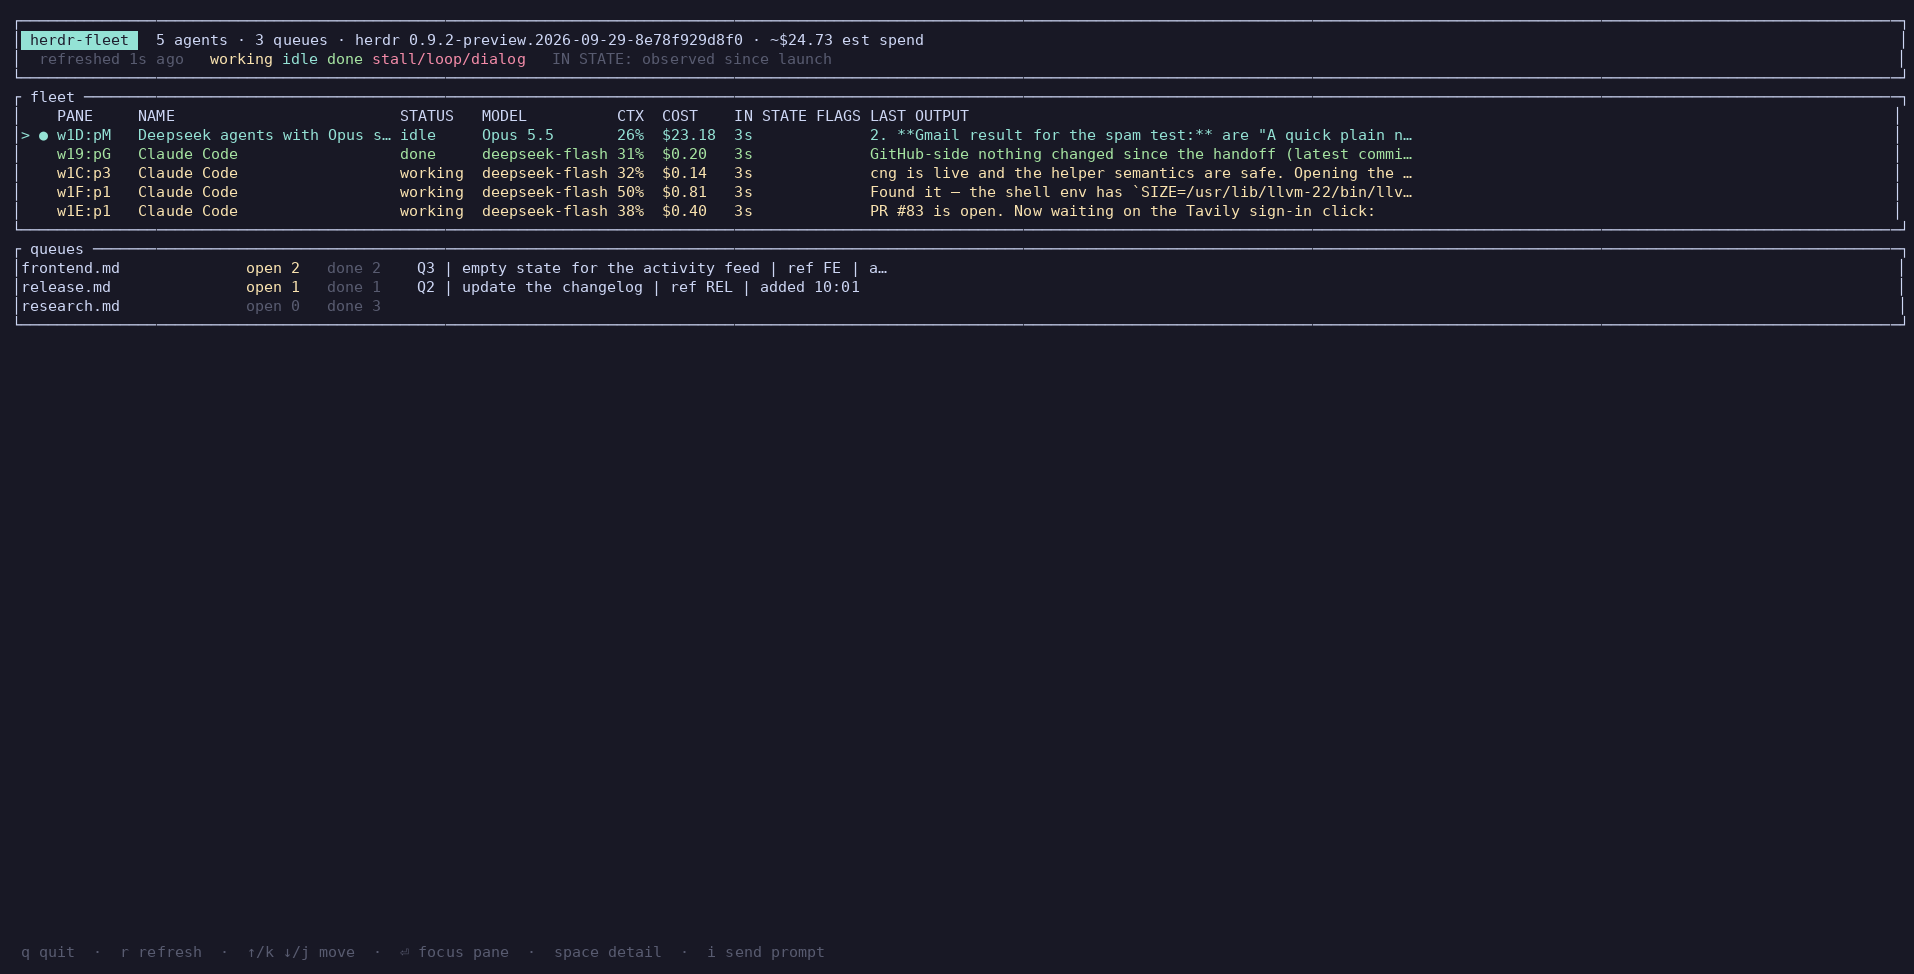
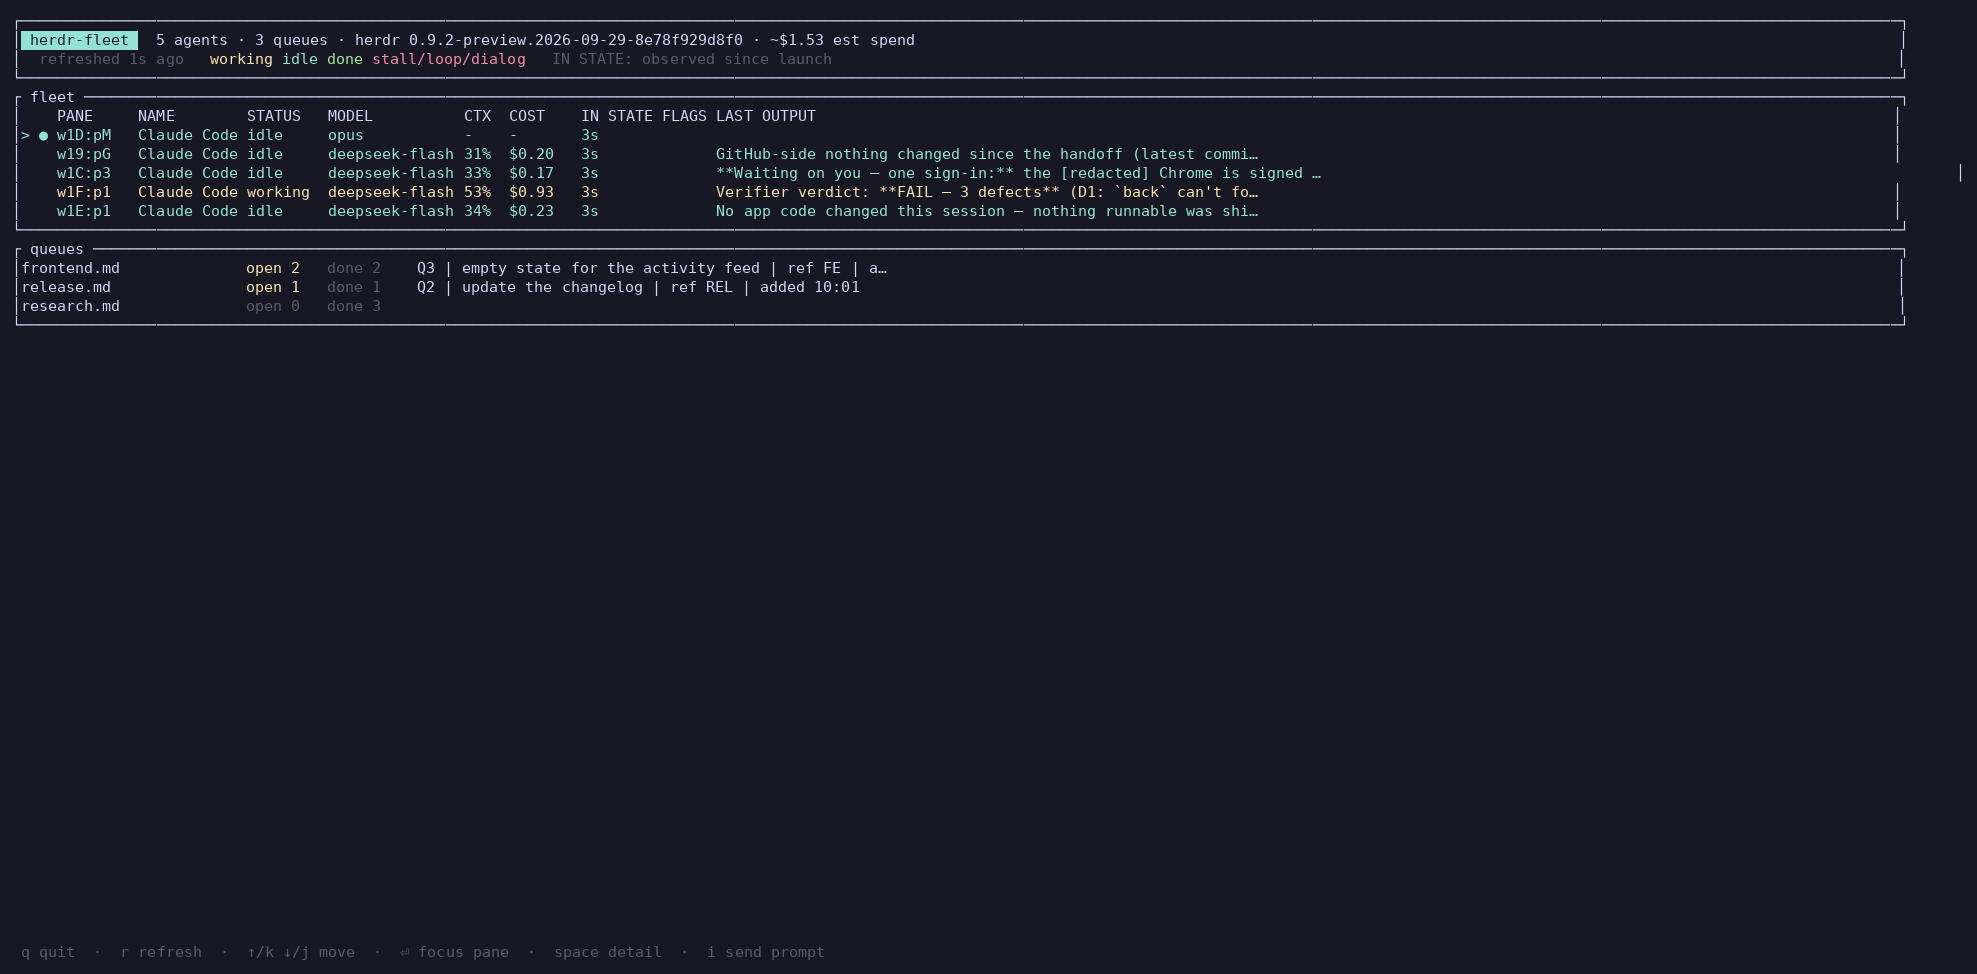
fix: back falls back to the recorded tab; scrub capture-time tokens; drop a private name from a comment
- back: agent -> tab -> workspace focus chain; exits non-zero when the exact
  recorded pane could not be focused (verifier D1)
- screenshot.sh: SCRUB_WORDS redacts capture-time tokens; PNG recaptured (D2)
- queue.rs: comment no longer names a private project (D3)

diff --git a/src/keys.rs b/src/keys.rs
@@ -84,28 +84,37 @@ pub fn read_fleet_pane() -> Result<FleetPane> {
     serde_json::from_str(&text).with_context(|| format!("bad {}", path.display()))
 }
 
-/// Focus the recorded fleet pane. Prefers the pane's agent; falls back to its
-/// workspace, which also works after the agent in that pane has exited.
+/// Focus the recorded fleet pane. The pane's agent is the precise target; a
+/// plain shell pane (the TUI's normal home when no agent runs there) has none,
+/// so fall back to the recorded tab, whose active pane is where the fleet ran.
+/// If even that fails, move to the workspace but exit non-zero: the exact pane
+/// could not be focused.
 pub fn back(herdr: &Herdr) -> Result<String> {
     let fp = read_fleet_pane()?;
+    let age = now_epoch().saturating_sub(fp.recorded_at);
     match herdr.focus(&fp.pane_id) {
-        Ok(()) => Ok(format!(
-            "focused {} (recorded {}s ago)",
-            fp.pane_id,
-            now_epoch().saturating_sub(fp.recorded_at)
-        )),
-        Err(e) => {
-            herdr.focus_workspace(&fp.workspace_id).map_err(|e2| {
+        Ok(()) => Ok(format!("focused {} (recorded {age}s ago)", fp.pane_id)),
+        Err(pane_err) => {
+            if !fp.tab_id.is_empty() && herdr.focus_tab(&fp.tab_id).is_ok() {
+                return Ok(format!(
+                    "focused tab {} — pane {} has no agent to focus ({pane_err:#})",
+                    fp.tab_id, fp.pane_id
+                ));
+            }
+            herdr.focus_workspace(&fp.workspace_id).map_err(|workspace_err| {
                 anyhow::anyhow!(
-                    "focus {} failed ({e:#}); workspace {} focus failed ({e2:#})",
+                    "focus {} failed ({pane_err:#}); tab {} and workspace {} focus failed too ({workspace_err:#})",
                     fp.pane_id,
+                    fp.tab_id,
                     fp.workspace_id
                 )
             })?;
-            Ok(format!(
-                "focused workspace {} (pane {} not focusable: {e:#})",
-                fp.workspace_id, fp.pane_id
-            ))
+            bail!(
+                "focused workspace {} but not the recorded pane {} (no agent there, and tab {} focus failed: {pane_err:#})",
+                fp.workspace_id,
+                fp.pane_id,
+                fp.tab_id
+            );
         }
     }
 }

diff --git a/src/herdr.rs b/src/herdr.rs
@@ -163,7 +163,12 @@ impl Herdr {
         self.run(&["agent", "focus", pane]).map(|_| ())
     }
 
-    /// Focus the workspace a pane lives in (fallback when its agent is gone).
+    /// Focus the tab a pane lives in (fallback when the pane's agent is gone).
+    pub fn focus_tab(&self, tab: &str) -> Result<()> {
+        self.run(&["tab", "focus", tab]).map(|_| ())
+    }
+
+    /// Focus the workspace a pane lives in (last-resort fallback).
     pub fn focus_workspace(&self, workspace: &str) -> Result<()> {
         self.run(&["workspace", "focus", workspace]).map(|_| ())
     }

diff --git a/src/queue.rs b/src/queue.rs
@@ -1,6 +1,6 @@
 //! Optional plugin: summarise a directory of markdown checklists.
 //!
-//! Nothing about it is herdr- or CC-MAESTRO-specific: point `--queue-dir` at
+//! Nothing about it is herdr- or project-specific: point `--queue-dir` at
 //! any folder of `- [ ]` / `- [x]` markdown lists.
 
 use std::fs;

diff --git a/README.md b/README.md
@@ -155,7 +155,8 @@ is skipped for non-default paths), `--no-reload` skips the server reload.
 
 `back` works because the TUI records its own pane on start (`herdr pane current`,
 stored in `~/.local/state/herdr-fleet/back.json`) and focuses it again — falling
-back to the pane's workspace if its agent has exited in the meantime.
+back to the pane's tab (then its workspace) when the recorded pane has no agent
+to address, and exiting non-zero if the exact pane could not be focused.
 
 ## Queues
 
